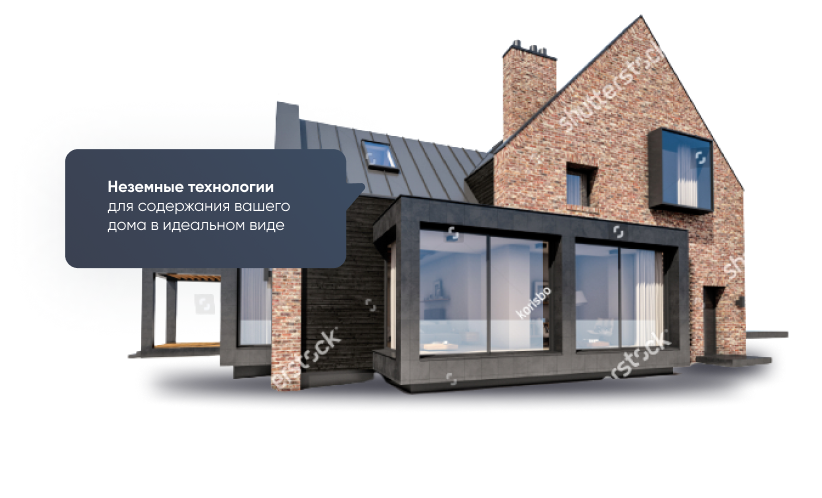
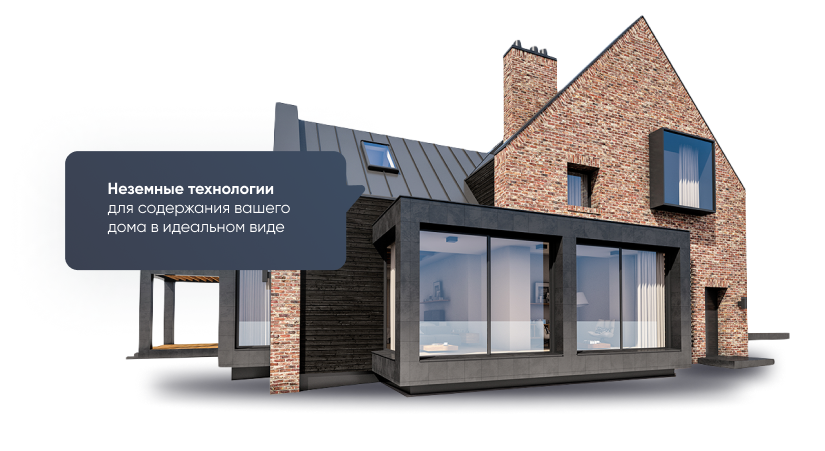
made adaptive for many monitors

diff --git a/css/media.css b/css/media.css
@@ -5,7 +5,7 @@
         position: relative;
     }
     .top_list li {
-        margin-right: 36px;
+        margin-right: 50px;
         white-space: pre-line;
     }
     .intro_section.vis::before {
@@ -119,18 +119,21 @@
     .cont_top {
         padding-left: 106px;
     }
-    .auto_poliv::before, 
+    /* .auto_poliv::before, 
     .auto_poliv2::before {
         display: none;
+    } */
+    .auto_poliv::before {
+        left: 75px;
     }
     .plan_flex,
     .poliv2_flex {
         padding-left: 0px;
         padding-top: 50px;
-        margin-left: -80px;
+        margin-left: 190px;
     }
     .poliv2_form1 {
-        margin-left: -290px;
+        margin-left: 65px;
     } 
     .go_prev {
         left: -90px;
@@ -138,23 +141,41 @@
     .go_next {
         right: -90px;
     }
+    .form_flex input {
+        width: 150px!important;
+    }
+    .application__btn {
+        padding: 20px 30px;
+    }
     
 }
 
 @media screen and (max-width:1360px) {
-    .auto_poliv::before, 
+    /* .auto_poliv::before, 
     .auto_poliv2::before {
         display: none;
-    }
+    } */
     .plan_flex,
     .poliv2_flex {
         padding-left: 0px;
         padding-top: 50px;
-        margin-left: -80px;
+        margin-left: 215px;
     }
     .poliv2_form1 {
-        margin-left: -290px;
+        margin-left: 100px;
     } 
+    .popular__more {
+        font-size: 20px!important;
+    }
+    .compare_title {
+        margin-top: -20px;
+    }
+    .compare_section {
+        min-height: 1400px;
+    }
+    .auto_poliv::before {
+        left: 50px;
+    }
 }
 @media screen and (max-width:1330px) {
     .go_next,
@@ -169,6 +190,9 @@
     }
     .over_case_wrp::before {
         display: none;
+    }
+    .poliv2_form1 {
+        margin-left: 135px;
     }
 }
 
@@ -306,7 +330,7 @@ p.mars_green {
         font-size: 20px;
     }
     .intro_section.vis::before {
-        bottom: -70px;
+        bottom: -10px;
     }
     .popular__items {
         grid-template-columns: repeat(2, 1fr);
@@ -322,16 +346,21 @@ p.mars_green {
     .poliv2_flex {
         padding-left: 0px;
         padding-top: 50px;
-        margin-left: -80px;
+        margin-left: -95px;
     }
     .poliv2_flex {
         margin-left: -120px;
     }
     .poliv2_form1 {
-        margin-left: -300px;
+        margin-left: -315px;
     } 
     /* .video_recommendation__item {
         width: 300px;
+    } */
+    /* .auto_poliv::before {
+        left: 10px;
+        width: 50%;
+        height: 50%;
     } */
 }
 
@@ -880,6 +909,57 @@ ul.top_list li {
         margin-bottom: -30px;
     }
 }
+
+@media (max-height:1024px) and (max-width:768px) {
+    .line_float1 {
+        margin-top: 110px;
+    }
+    .intro_section.vis::before {
+        bottom: -230px;
+    }
+    .compare_section h2 {
+        margin-top: 30px;
+    }
+    .layer__part {
+        margin-top: -150px!important;
+        padding-bottom: 70px;
+    }
+    .popular__title {
+        margin-top: -20px;
+    }
+    .result_section h2 {
+        margin-top: -40px;
+    }
+    .text2 {
+        margin-top: 130px;
+    }
+    .auto_poliv2 {
+        margin-top: -370px!important;
+    }
+    .team_section h2 {
+        margin-bottom: -110px!important;
+    }
+    .team_section {
+        margin-bottom: -30px!important;
+    }
+    .video_recommendation__item::after {
+        left: 75px;
+    }
+    .map_img img {
+        margin-top: 125px;
+    }
+    .application {
+        margin-bottom: 15px;
+    }
+    .mob_li img {
+        margin-right: 7px;
+        margin-left: 3px;
+    }
+    .h1 {
+        margin-top: 90px;
+    }
+}
+
 @media screen and (max-width:768px) {
     .noxs {
         display: none
@@ -1620,6 +1700,9 @@ ul.top_soc {
     }
     .video_recommendation__list {
         padding-bottom: 260px;
+    }
+    .result_section h2 {
+        margin-top: 20px;
     }
 }
 

diff --git a/index.html b/index.html
@@ -163,7 +163,7 @@
                 </div>
             </div>
             
-            <div class="row flex video_area_flex">
+            <div class="row flex video_area_flex layer__part">
                 <div class="col-md-5 col-sm-6 col-xs-12 layer-desc">
                     <h2 class="layer_title">Юридическое <br>
                         сопровождение работ</h2>   
@@ -1299,7 +1299,7 @@
                             <div class="plan_forma_wrp">
                                 <div class="form_flex">
                                     <input type="text" placeholder="+7 (" name="phone" maxlength="18">
-                                    <button class="orange_but">оставить заявку</button>
+                                    <button class="orange_but" data-toggle='modal' data-target='#thanks'>оставить заявку</button>
                                 </div>
                                 <p class="pressing pressed">Нажимая на кнопку “Получить план” вы даёте согласие  <br>на обработку <span>персональных данных</span></p>
                             </div>
@@ -1651,6 +1651,27 @@
   </div>
 </div>
     <div class="modal fade" id="recall" tabindex="-1" role="dialog">
+  <div class="modal-dialog normal_modal" role="document">
+    <div class="modal_wrp">
+        <div class="closemod" data-dismiss="modal"><img src="img/close.svg" alt=""></div>
+        <div class="modal_hd">
+            <div class="modal_sale_text">
+                <p>Заказать звонок</p>
+                <span>Оставьте заявку и мы перезвоним<br> Вам в ближайшее время</span>
+            </div>
+        </div>
+        <div class="modal_body_in">
+            <form>
+                <input type="hidden" name="wf" value="Обратный звонок">
+            <input type="text" placeholder="+7 (" name="phone">
+            <button class="orange_but">Заказать</button>
+            <p class="pressing pressed">Нажимая на кнопку “Заказать”  вы даёте<br> согласие на обработку <span>персональных данных</span></p>
+            </form>
+        </div>
+    </div>
+  </div>
+</div>
+    <div class="modal fade" id="recall1" tabindex="-1" role="dialog">
   <div class="modal-dialog normal_modal" role="document">
     <div class="modal_wrp">
         <div class="closemod" data-dismiss="modal"><img src="img/close.svg" alt=""></div>

diff --git a/css/main.css b/css/main.css
@@ -487,7 +487,7 @@ h1 img {
     transform: rotate(7.25deg);
     height: 32px;
     white-space: nowrap;
-    margin-top: 150px;
+    margin-top: 140px;
     margin-left: -50px;
 }
 
@@ -1930,7 +1930,7 @@ input {
     background-repeat: no-repeat;
     background-position: top center;
     min-height: 2599px;
-    margin-top: -118px;
+    margin-top: -205px;
     padding-top: 205px;
     position: relative;
 }
@@ -3523,7 +3523,7 @@ header .container {
 }
 
 .fixMe {
-    padding: 10px 0;
+    padding: 5px 0;
     background-color: #fff;
     -webkit-box-shadow: 1px 11px 66px rgb(29 29 29 / 6%);
     box-shadow: 1px 11px 66px rgb(29 29 29 / 12%);
